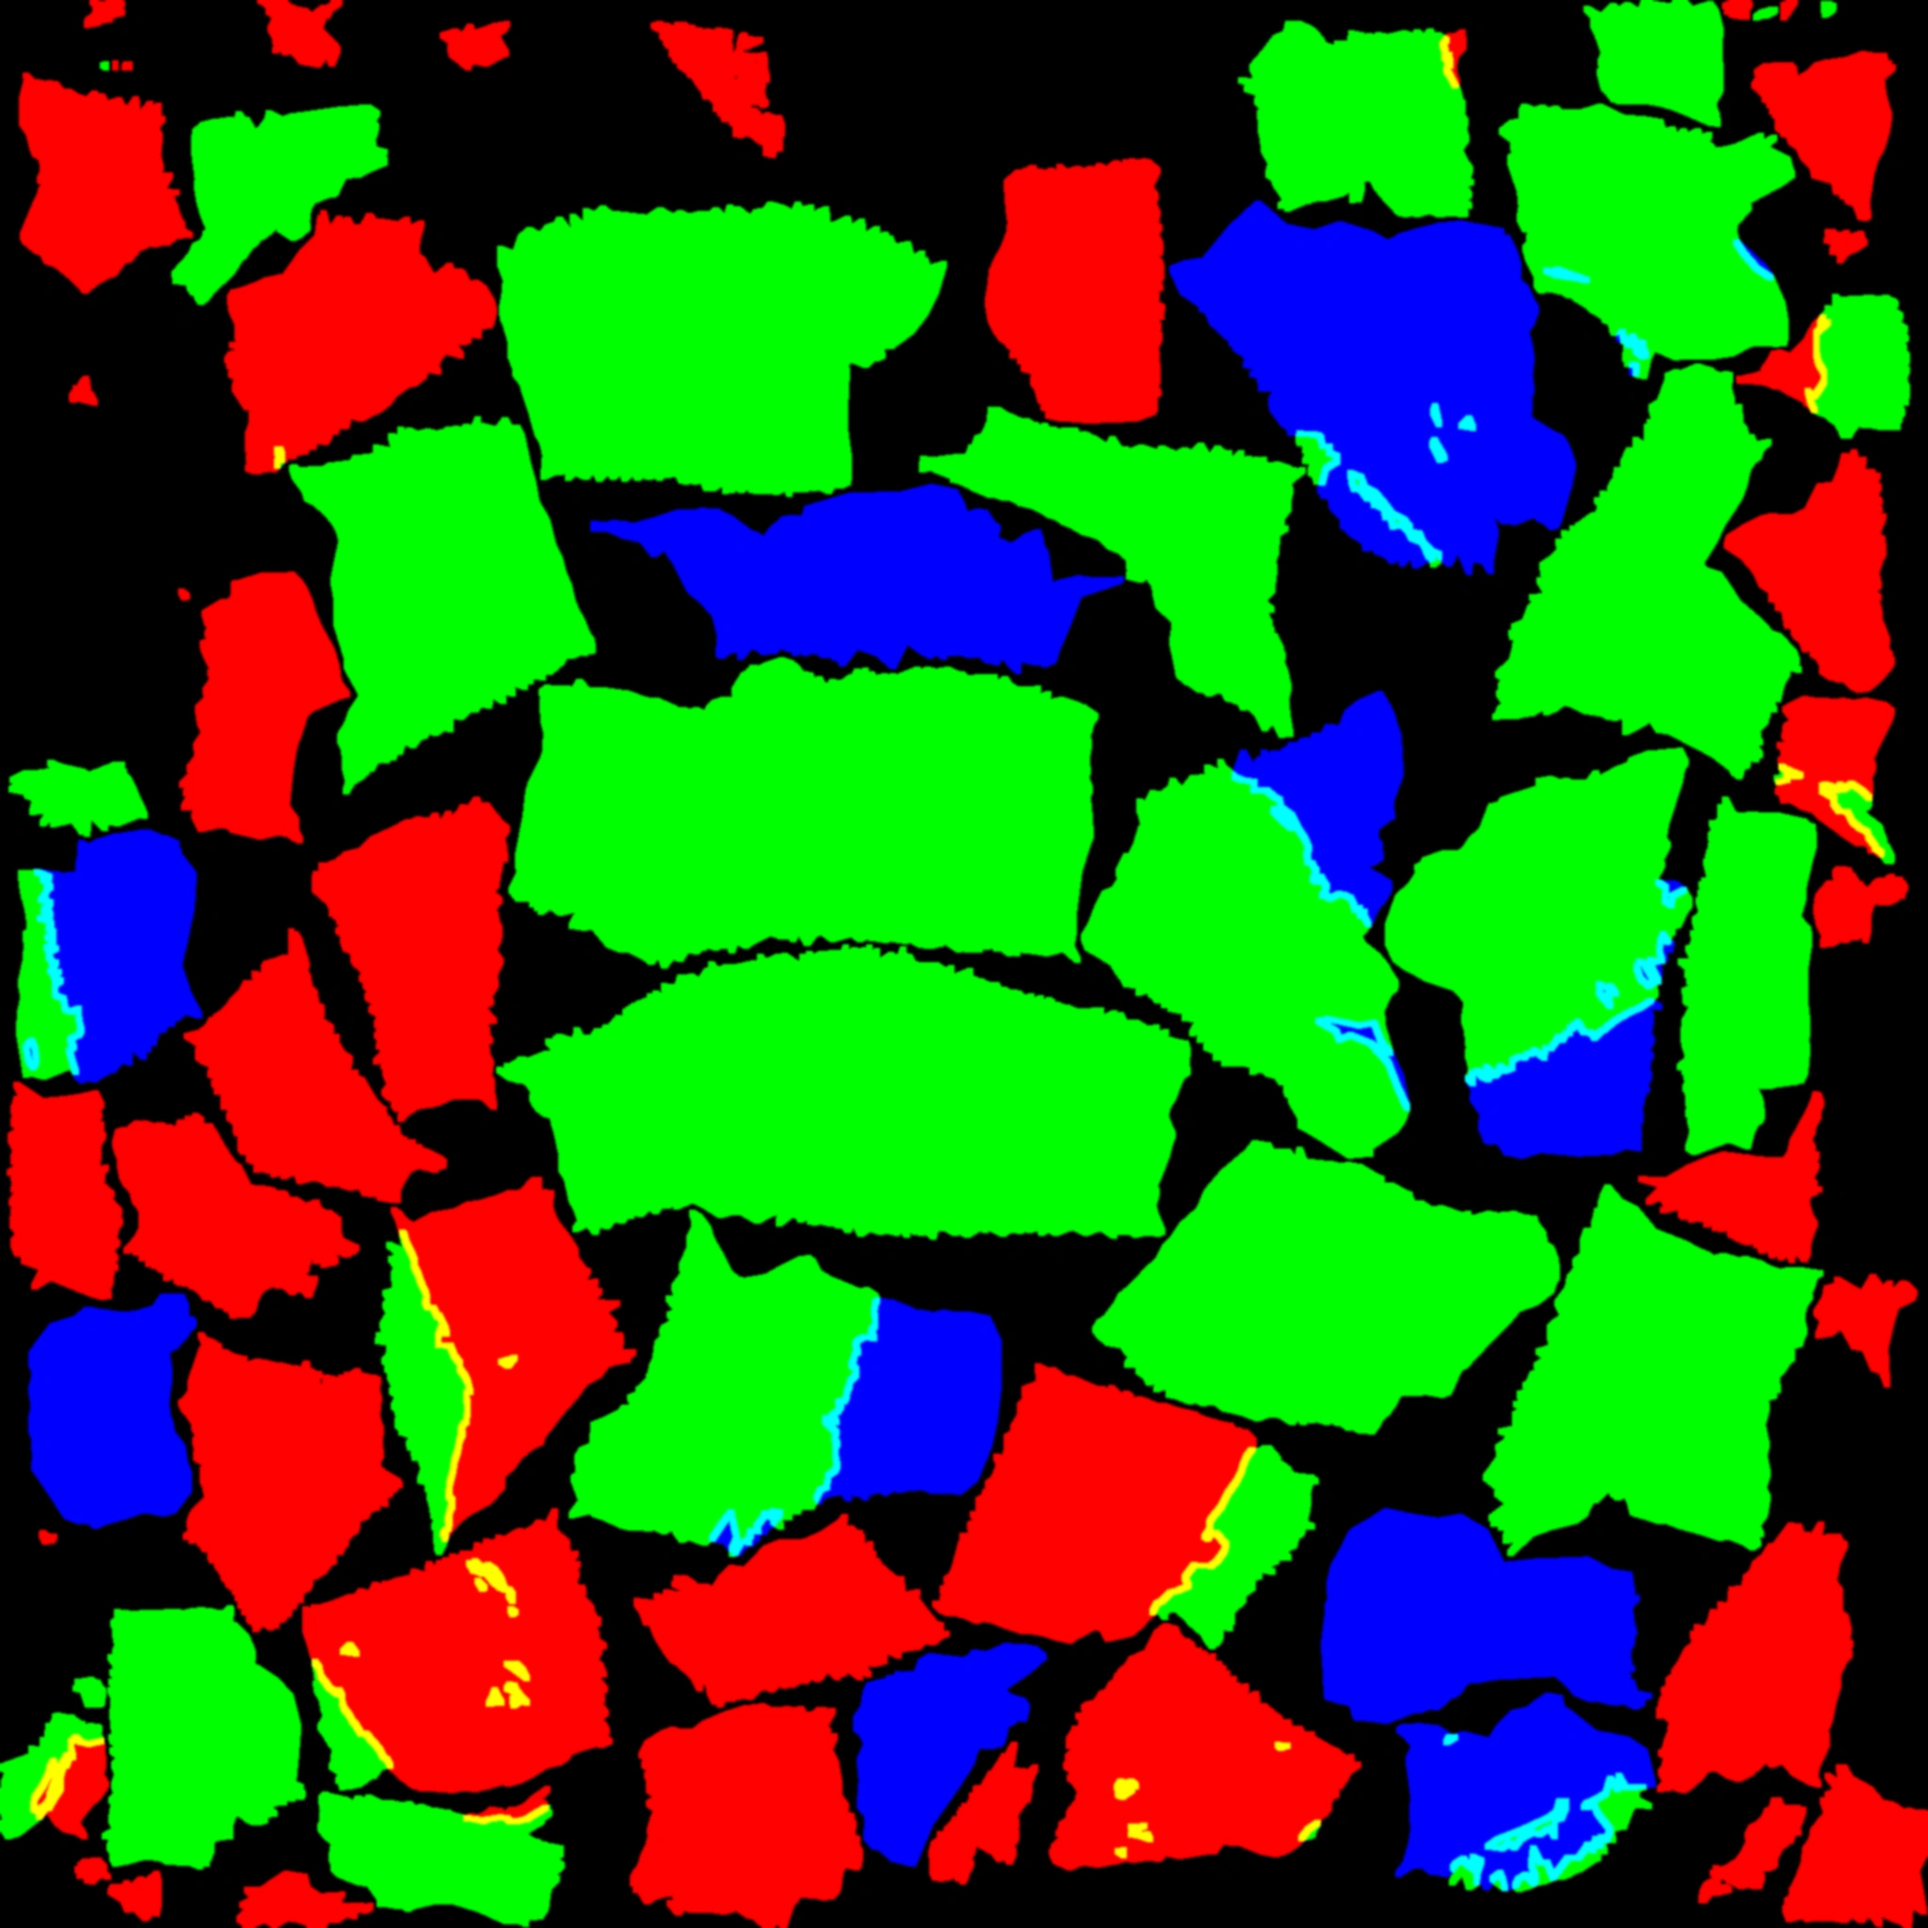
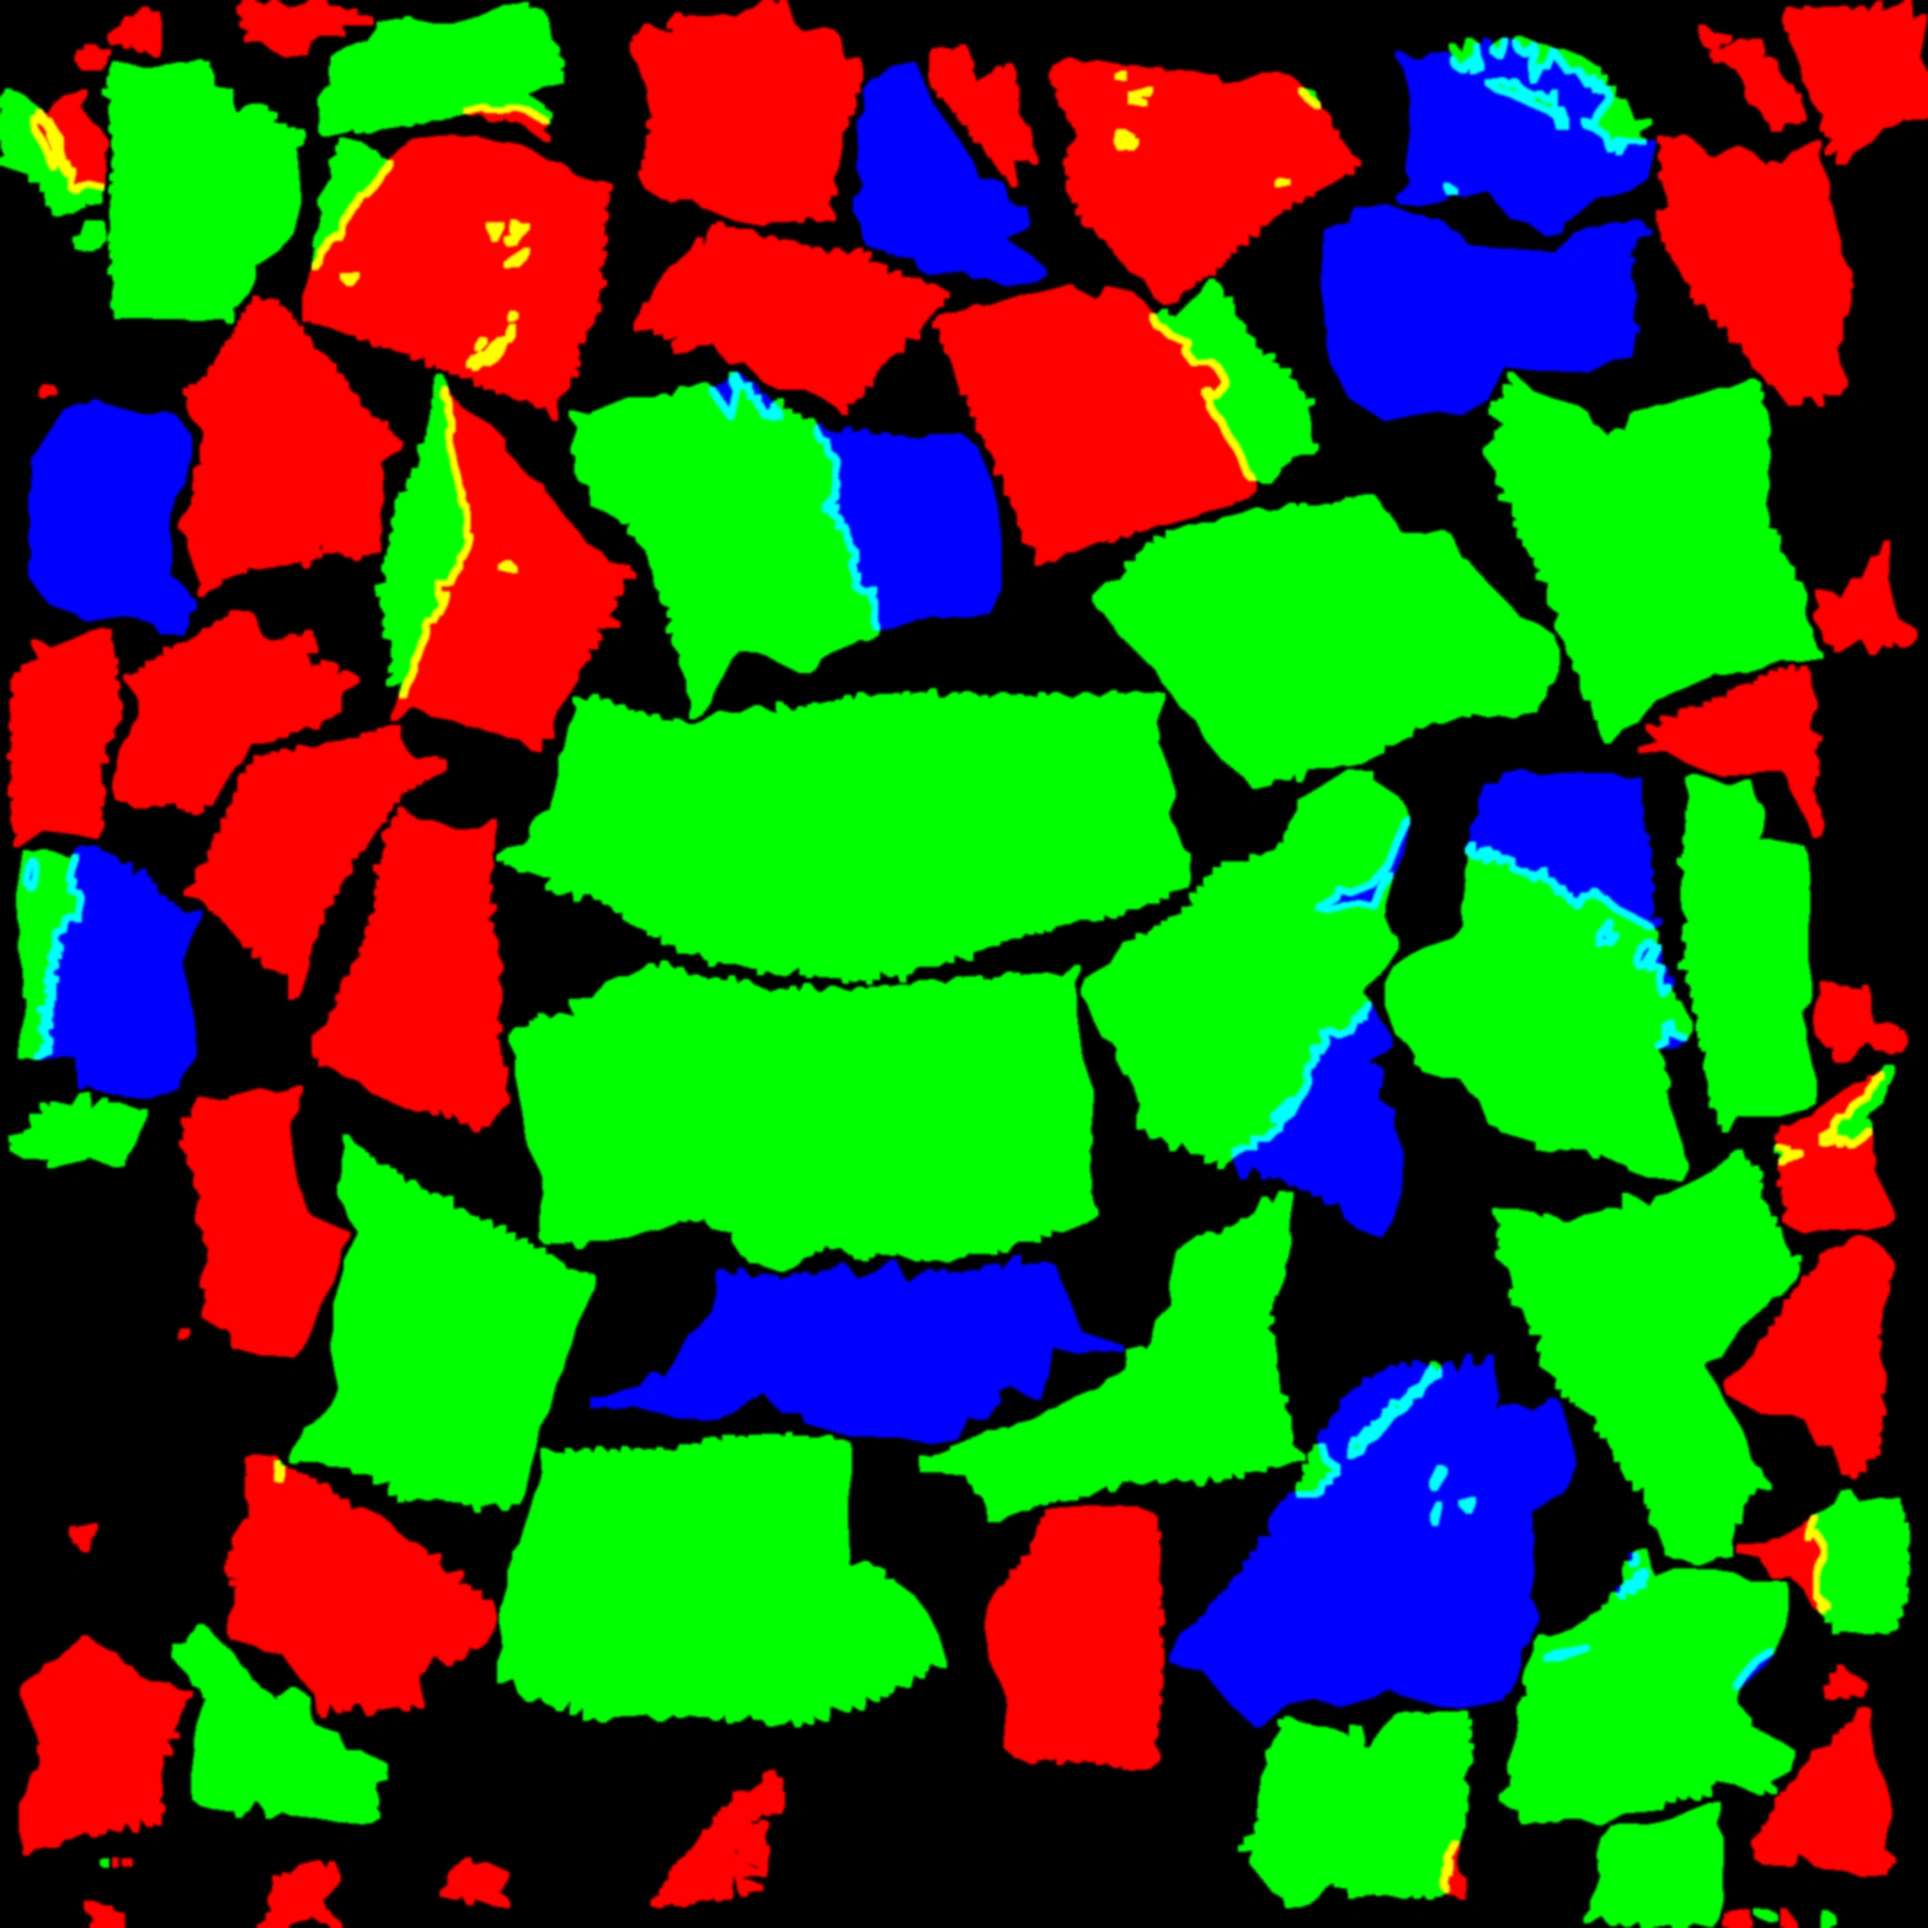
Player wardrobe mask: Blender UV v flipped to glTF (the recolor landed on the wrong texels)

diff --git a/tools/v2/player/regions_raster.py b/tools/v2/player/regions_raster.py
@@ -1,13 +1,13 @@
 #!/usr/bin/env python3
 # Rasterize the wardrobe region triangles from regions.py into regions.webp (R shirt, G pants, B shoes), 2048 px,
-# dilated over UV seams. Row 0 of the image = v 0 (the game samples with flipY = false).
+# dilated over UV seams. Row 0 of the image = glTF v 0 = Blender v 1 (the game samples with flipY = false).
 import sys
 import numpy as np
 from PIL import Image, ImageDraw, ImageFilter
 d = np.load(sys.argv[1]); out = sys.argv[2]; R = 2048
 ch = [Image.new('L', (R, R), 0) for _ in range(3)]; dr = [ImageDraw.Draw(c) for c in ch]
 for t, k in zip(d['tri'], d['k']):
-    dr[int(k)].polygon([(float(u) * R, float(v) * R) for u, v in t], fill=255)
+    dr[int(k)].polygon([(float(u) * R, (1 - float(v)) * R) for u, v in t], fill=255)   # Blender v -> glTF v = 1 - v
 ch = [c.filter(ImageFilter.MaxFilter(7)).filter(ImageFilter.GaussianBlur(1.2)) for c in ch]
 Image.merge('RGB', ch).save(out, quality=95, method=6) if out.endswith('.webp') else Image.merge('RGB', ch).save(out)
 print('[regions_raster] wrote', out)
